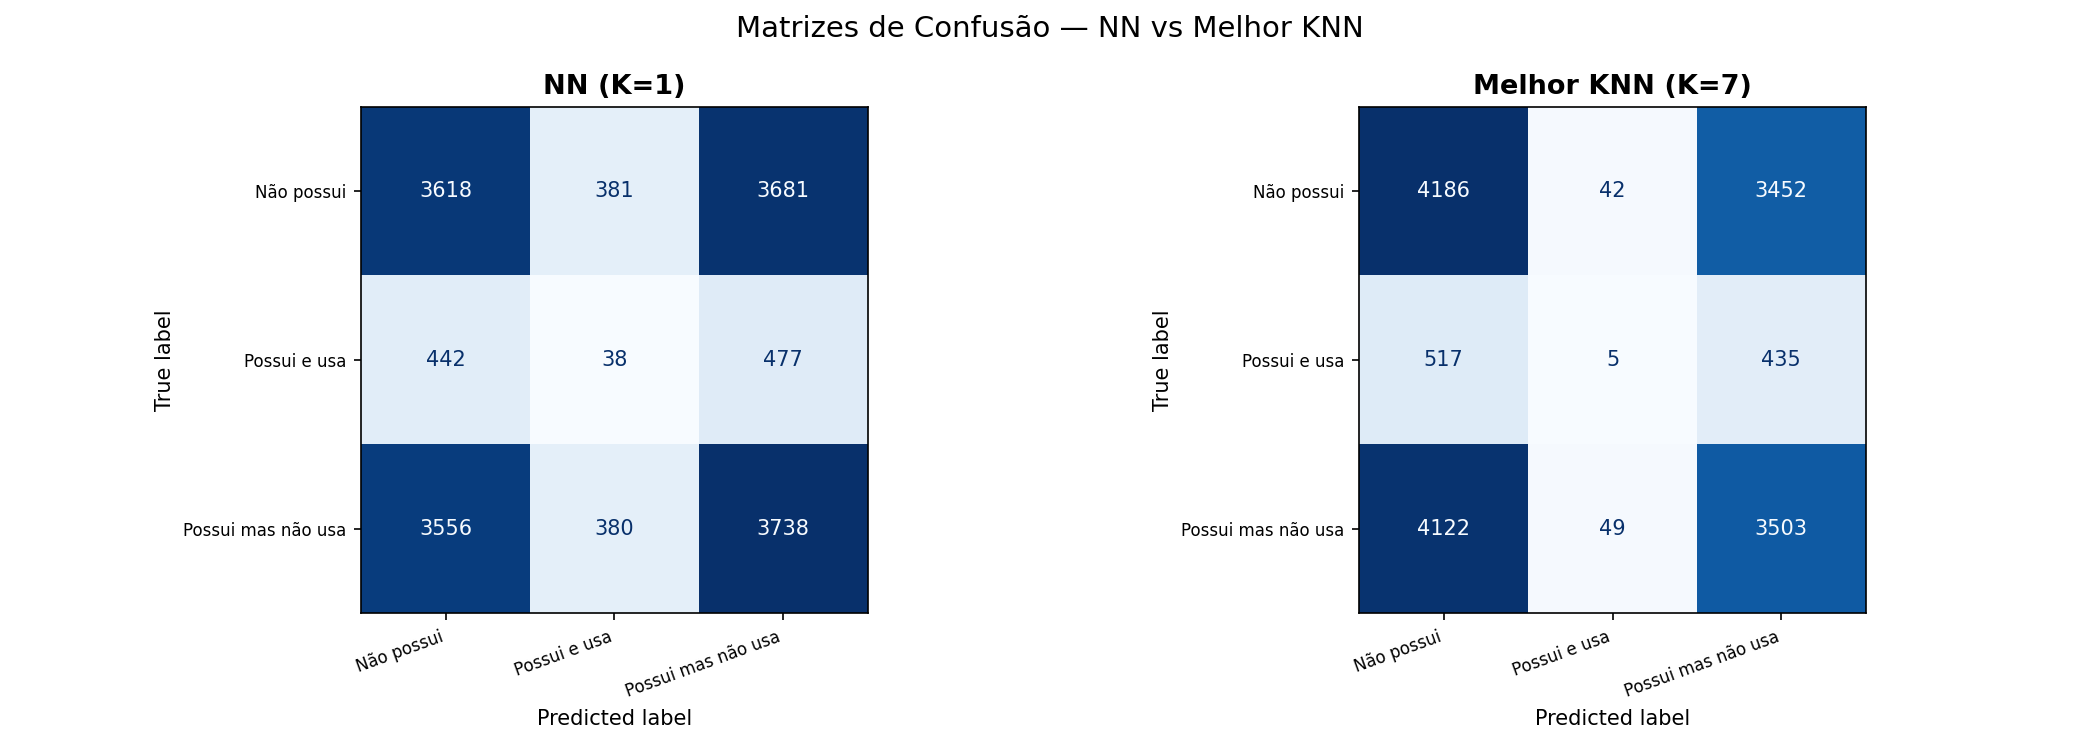
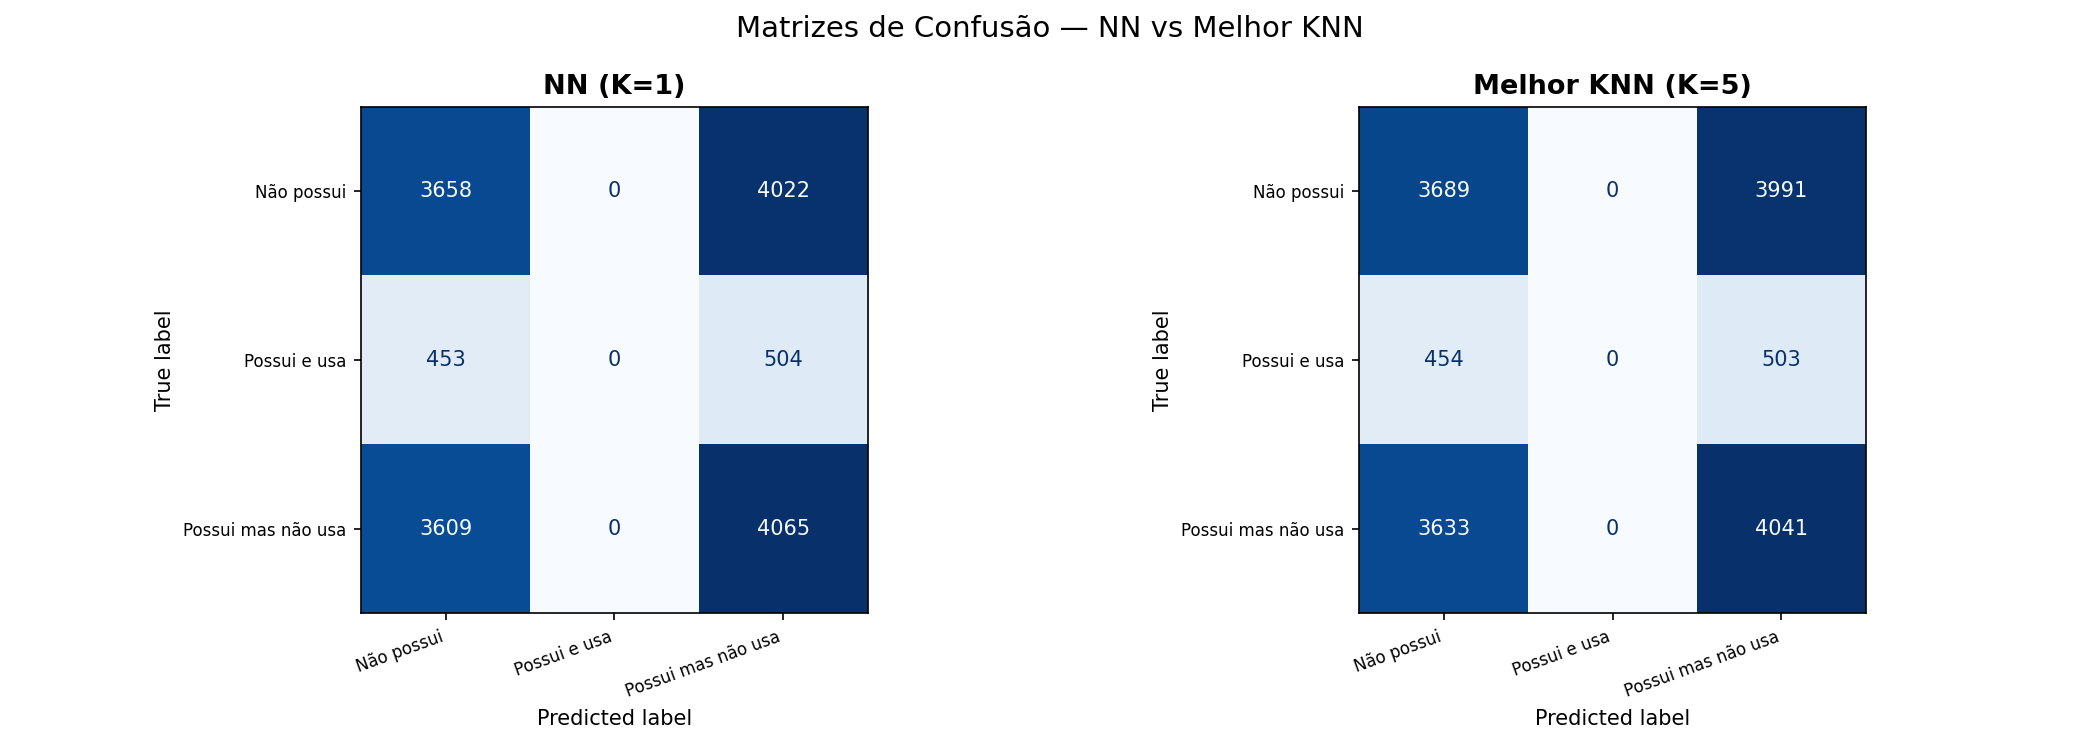
z

diff --git a/trab2_tci.py b/trab2_tci.py
@@ -64,7 +64,7 @@ def treinar_modelos_knn(X_train, X_test, y_train, y_test, ks):
 # =============================================================================
 # 1. CARREGAMENTO E ANÁLISE EXPLORATÓRIA
 # =============================================================================
-df = pd.read_csv("datasetNovo.csv")
+df = pd.read_csv("dataset.csv")
 
 print("=== PRIMEIRAS LINHAS DO DATASET ===")
 print(df.head())